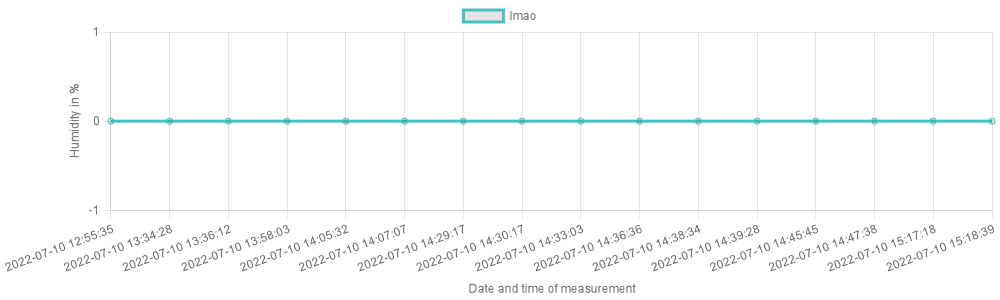
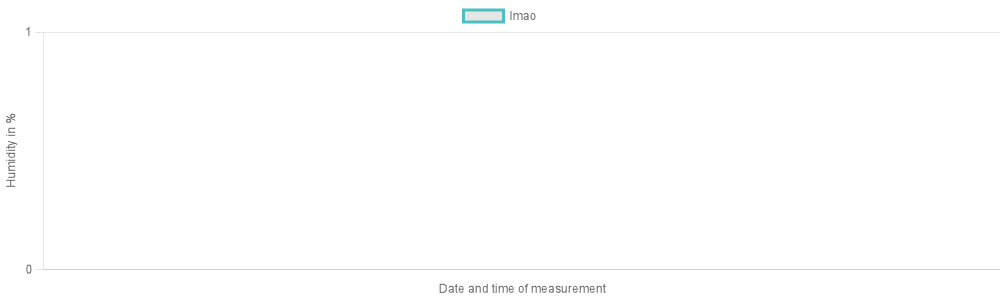
Not all bugs fixed

diff --git a/front/public/js/app.js b/front/public/js/app.js
@@ -9,7 +9,6 @@ function startup(isIndex = 0) {
     } else {
         //PlantView with more details to one specific node_ip
         dateTime();
-        //plantChart();
         plantDetailView();
     }
 };
@@ -75,18 +74,17 @@ async function refreshPlants() {
             // toggle pump if moisture level is under 20% till it is 60%
             // https://www.greenwaybiotech.com/blogs/gardening-articles/how-soil-moisture-affects-your-plants-growth
 
-            if (humidity < low){
-                await (fetch('/pump_toggle' + '?node_ip=' + myIP));
-                response = await (fetch('/plantRefresh'));
-                while (humidity<= high){
-                    // sleep
-                    await new Promise(r => setTimeout(r, 2000));
-                    data = await response.json();
-                    humidity = data[i].humidity;
-                }
-                await (fetch('/pump_toggle' + '?node_ip=' + myIP));
-
-            }
+            //if (humidity < low){
+            //    await (fetch('/pump_toggle' + '?node_ip=' + data[i].node_ip));
+            //    while (humidity<= high){
+            //        // sleep
+            //        response = await (fetch('/plantRefresh'));
+            //        await new Promise(r => setTimeout(r, 2000));
+            //        data = await response.json();
+            //        humidity = data[i].humidity;
+            //    }
+            //    await (fetch('/pump_toggle' + '?node_ip=' + data[i].node_ip));
+            //}
             a.href = 'plantView?node_ip=' + data[i].node_ip;
         
             div.appendChild(h3_top.cloneNode(true));
@@ -119,66 +117,36 @@ async function plantDetailView() {
     var wet_value= data[0].wet_value;;
 
     // Creating the Box with plant and info
-    var element = document.getElementById("scrollmenu");
-    var div = document.createElement('div');
-        div.classList.add('box');
-    var br = document.createElement('br');
-    var h3 = document.createElement('h3');
-        h3.textContent = 'Plant ' + data[0].node_ip;
-    var img = document.createElement('img');
-        img.src = '/img/placeholder_plant.png';
-        img.alt = 'Plant';
-    var text_hum = document.createTextNode('Humidity: ' + data[0].humidity + '%');
-    var form = document.createElement('form');
-        form.action = '/pump_toggle' + '?nodeIP=' + myIP;
-        form.method = 'POST';
-    var input1 = document.createElement('input');
-        input1.type = 'submit';
-        input1.name = 'TRUE';
-        input1.value = 'Turn Pump On';
-    var input2 = document.createElement('input');
-        input2.type= 'submit';
-        input2.name = 'FALSE';
-        input2.value = 'Turn Pump Off';
-    var a = document.createElement('a');
-        a.id = 'plantSetting';
-        a.title = 'Go back to all plants';
-        a.text = 'Go back';
-        a.href = '/';
-    var form_config = document.createElement('form');
-        form.action = '/calibrate_sensor' + '?nodeIP=' +myIP + '?wet_value='+wet_value+ '?dry_value='+dry_value;
-        form.method = 'POST';
-    var wet_value = document.createElement('input');
-        wet_value.type= 'text';
-        wet_value.name = 'wet_value';
-        wet_value.value = 'WET VALUE';
-        wet_value.size = "10";
-    var dry_value = document.createElement('input');
-        dry_value.type= 'text';
-        dry_value.name = 'dry_value';
-        dry_value.value = 'DRY VALUE';
-        dry_value.size = "10";
-    var set_value = document.createElement('input');
-        set_value.type= 'submit';
-        set_value.name = 'set_value';
-        set_value.value = 'SET VALUE';
-        set_value.size = "10";
-
-    div.appendChild(h3);
-    div.appendChild(img);
-    div.appendChild(br.cloneNode(true));
-    div.appendChild(br.cloneNode(true));
-    div.appendChild(text_hum);
-    div.appendChild(br.cloneNode(true));
-    form_pump.appendChild(input1);
-    form_pump.appendChild(input2);
-    form_config.appendChild(dry_value);
-    form_config.appendChild(wet_value);
-    form_config.appendChild(set_value);
-    div.appendChild(form_pump);
-    div.appendChild(form_config);
-    div.appendChild(a);
-    element.appendChild(div);
+    var element = document.getElementById("plantChart");
+    element.insertAdjacentHTML('afterend', `\
+<div class="box">
+    <h3>
+        Plant
+        <br/>
+        <br/>
+        ${data[0].node_ip}
+    </h3>
+    <img src="/img/placeholder_plant.png" alt="Plant">
+    <br/>
+    <br/>
+    Humidity: ${data[0].humidity}%
+    <br/>
+    <form action="/pump_toggle?node_ip=${myIP}" method="POST">
+        <br/>
+        <input type="submit" name="TOGGLE" value="Toggle Pump">
+    </form>
+    <br/>
+    <form action="/calibrate_sensor" method="POST">
+        <input type="hidden" name="node_ip" value="${myIP}">
+        <input type="text" name="dry_value" value="${dry_value}" size="10">
+        <input type="text" name="wet_value" value="${wet_value}" size="10">
+        <br/>
+        <br/>
+        <input type="submit" value="Calibrate sensor" size="10">
+    </form>
+    <br/>
+    <a href="/" text="Go back", title="Go back to plants overview" id="plantSetting"></a>
+</div>
 <div class="boxChart">
     <img src="/img/mychart.png" alt="Plant Chart">
 </div>`);

diff --git a/front/public/css/style.css b/front/public/css/style.css
@@ -47,8 +47,18 @@ button {
     border-left: 5px solid #00CC66;
     color: #000000;
     border-spacing: 0;
-    height: 300px;
 }
+
+    .plantSelection a {
+        color: blue;
+        text-align: center;
+        padding: 3%;
+        text-decoration: none;
+    }
+
+        .plantSelection a:hover {
+            color: dodgerblue;
+        }
 
 .scrollmenu {
     overflow-x: scroll;
@@ -63,6 +73,8 @@ button {
         text-align: center;
         padding: 3%;
         text-decoration: none;
+        height: auto;
+        width: auto;
     }
 
         .scrollmenu a:hover {
@@ -92,12 +104,12 @@ button {
     background-color: ghostwhite;
     border: 5px solid #00CC66;
     border-radius: 16px;
-    width: 70%;
+    width: 75%;
     margin: 0.5%;
 }
 
     .boxChart img {
-        width: 90%;
+        width: 95%;
     }
 
     .boxChart hover {

diff --git a/front/db.js b/front/db.js
@@ -154,6 +154,7 @@ module.exports = {
     select_plant_info: async function (node_ip) {
         var data = 0;
         // Return infos of a single plant identified by its node_ip
+        // AND ph.date_time >= DATETIME('now', 'localtime', '-10 days')
         let return_data = await new Promise(function (resolve) {
             db.all(`
             SELECT
@@ -166,7 +167,6 @@ module.exports = {
             FROM plant_nodes pn
             JOIN plant_humidities ph ON pn.id = ph.node
             WHERE pn.node_ip = ?
-            AND ph.date_time >= DATETIME('now', 'localtime', '-10 days')
             `, node_ip, (err, row) => {
                 if (err) {
                     console.log(`Select query error: ${err}`);

diff --git a/front/views/plantView.html b/front/views/plantView.html
@@ -19,6 +19,7 @@
         <tr>
             <td colspan="2">
                  <div class="scrollmenu" id="scrollmenu">
+                    <div id="plantChart"></div>
                     <!--<div class="box">
                         Plant 1<br />
                         <img src="/img/placeholder_plant.png" alt="Plant"><br />
@@ -37,7 +38,6 @@
                         <a id="plantSettings" title="Go back to all plants." href="/">Go back!</a><br />
                     </div>--> 
                 </div>
-                <div id="plantChart"></div>
             </td>
         </tr>
     </table>

diff --git a/front/server.js b/front/server.js
@@ -19,7 +19,6 @@ const chartCallback = (ChartJS) => {
     console.log('chart built')
 };
 const canvasRenderService = new ChartJSNodeCanvas({ width, height, chartCallback });
-var xLabels = ['1', '2', '3', '4', '5', '6', '7', '8', '9', '10', '11']
 
 // Websocket
 var io = require('socket.io')(http);
@@ -256,8 +255,7 @@ async function testAll(){
     setTimeout(() => { db.select_all(); }, 1000);
 };
 
-
-
+db.select_all();
 db.change_plant_node("::", 0, 0, 0);
 db.insert_plant_humidity("::", 50);
 
